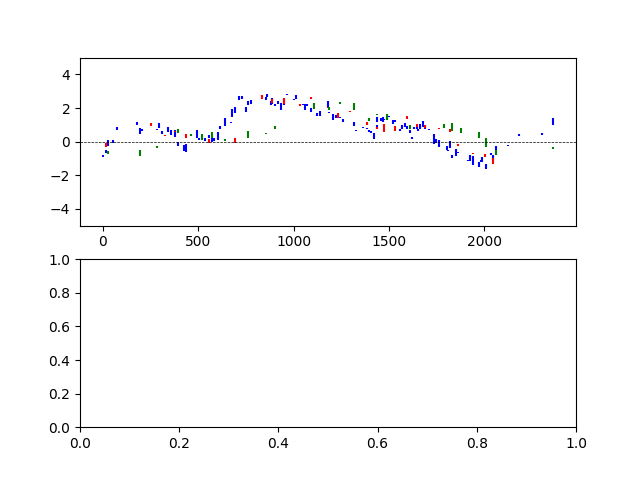
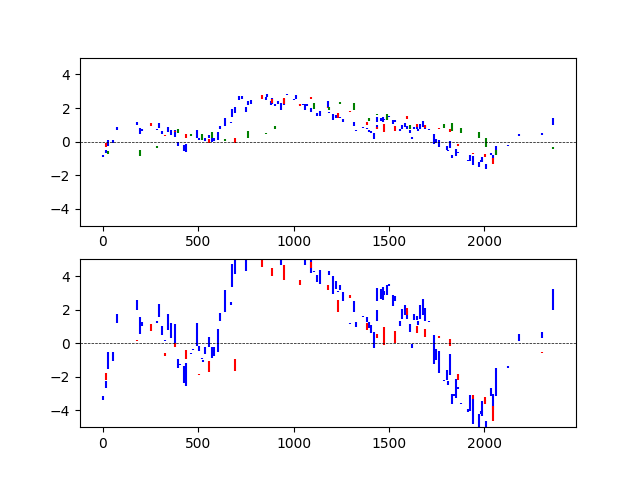
auto commit via batch

diff --git a/Data/data_fake/clearsignal/makecontours.py b/Data/data_fake/clearsignal/makecontours.py
@@ -2,40 +2,53 @@ from chainconsumer import ChainConsumer
 import numpy as np
 import matplotlib.pylab as plt
 
-try:
-    SIGNAL = np.loadtxt("banded_data.dat")
-except:
-    pass
+SIGNAL = np.loadtxt("banded_data.dat")
+
 
 #==================================
 
-try:
-    DATA = np.loadtxt("outchain.dat")
-    KEYS = np.loadtxt("outchain_keys.dat", dtype="str_")
+DATA = np.loadtxt("outchain.dat")
+KEYS = np.loadtxt("outchain_keys.dat", dtype="str_")
 
-    c = ChainConsumer()
-    c.add_chain(DATA, parameters = list(KEYS))
+Nbands = (DATA.shape[1]-3) / 3
 
-    truth = {"amps_0" : 1,
-             "amps_1" : 1,
+c = ChainConsumer()
+c.add_chain(DATA, parameters = list(KEYS))
+
+if Nbands==2:
+    truth = {"rel_amps_0" : 1,
+             "rel_amps_1" : 1,
              "log_sigma_c" : 0,
              "log_tau" : 5.99,
              "means_0":0,
              "means_1":0,
              "means_2":0}
 
-    extents = {"amps_0" :       (0,10),
-             "amps_1" :         (0,10),
+    extents = {"rel_amps_0" :       (0,10),
+             "rel_amps_1" :         (0,10),
              "log_sigma_c" :    (-2.3,2.3),
              "log_tau" :        (2,8),
              "means_0":         (-10,10),
              "means_1":         (-10,10),
              "means_2":         (-10,10)
                }
+elif Nbands==1:
+    truth = {"rel_amps" : 1,
+             "log_sigma_c" : 0,
+             "log_tau" : 5.99,
+             "means_0":0,
+             "means_1":0,
+             }
 
-    c.plotter.plot(filename ="./contours.png", truth=truth, extents=extents)
-except:
-    pass
+
+    extents = {"rel_amps" :       (0,10),
+             "log_sigma_c" :    (-2.3,2.3),
+             "log_tau" :        (2,8),
+             "means_0":         (-10,10),
+             "means_1":         (-10,10),
+               }
+
+c.plotter.plot(filename ="./contours.png", truth=truth, extents=extents)
 #==================================
 fig,ax = plt.subplots(2,1)
 cols = ['b','r','g']
@@ -49,16 +62,15 @@ for file,c in zip(["cont.dat", "line1.dat", "line2.dat"],cols):
 ax[0].set_ylim([-5,5])
 ax[0].axhline(0,c='k', ls='--', lw=0.5)
 
-try:
-    for band,c in zip([0,1,2], cols):
-        inds = np.where(SIGNAL[:,3]==band)[0]
-        
-        ax[1].errorbar(SIGNAL[:,0][inds],SIGNAL[:,1][inds],yerr=SIGNAL[:,2][inds],fmt='none',c=c)
-        
-        
-    ax[1].set_ylim([-5,5])
-    ax[1].axhline(0,c='k', ls='--', lw=0.5)
-except:
-    pass
+
+for band,c in zip([0,1,2], cols):
+    inds = np.where(SIGNAL[:,3]==band)[0]
+    
+    ax[1].errorbar(SIGNAL[:,0][inds],SIGNAL[:,1][inds],yerr=SIGNAL[:,2][inds],fmt='none',c=c)
+    
+    
+ax[1].set_ylim([-5,5])
+ax[1].axhline(0,c='k', ls='--', lw=0.5)
+
 
 fig.savefig("signal.png",fmt="png")

diff --git a/fitting_procedure.py b/fitting_procedure.py
@@ -197,22 +197,15 @@ def fit_single_source(banded_data, MCMC_params=None):
 
     # Construct and run MCMC sampler
     # DEBUG - Try using SA instead of NUTS
+    sampler_type = infer.NUTS(nline_model, init_strategy=infer.init_to_value(values=init_params), step_size=MCMC_params["step_size"])
+    #sampler_type = infer.SA(nline_model, init_strategy=infer.init_to_value(values=init_params))
 
     sampler = numpyro.infer.MCMC(
-        infer.NUTS(nline_model, init_strategy=infer.init_to_value(values=init_params), step_size=MCMC_params["step_size"]),
+        sampler_type,
         num_chains=MCMC_params["Nchain"],
         num_warmup=MCMC_params["Nburn"],
         num_samples=MCMC_params["Nsample"],
         progress_bar=MCMC_params["progress_bar"])
-
-    '''
-    sampler = numpyro.infer.MCMC(
-        infer.SA(nline_model, init_strategy=infer.init_to_value(values=init_params)),
-        num_chains=MCMC_params["Nchain"],
-        num_warmup=MCMC_params["Nburn"],
-        num_samples=MCMC_params["Nsample"],
-        progress_bar=MCMC_params["progress_bar"])
-    '''
 
     sampler.run(jax.random.PRNGKey(0), banded_data)
 

diff --git a/data_utils.py b/data_utils.py
@@ -130,7 +130,8 @@ def data_tform(data, tform_params=None, sort = False):
         tformed_data["Y"]-=params["means"][tformed_data["bands"]]
         tformed_data["Y"]/=params["amps"][tformed_data["bands"]]
 
-        if "E" in data.keys(): tformed_data["E"]/=params["amps"][tformed_data["bands"]]
+        if "E" in data.keys():
+            tformed_data["E"]/=params["amps"][tformed_data["bands"]]
 
         if sort:
             sort_inds = jnp.argsort(tformed_data["T"])
@@ -243,9 +244,9 @@ if __name__=="__main__":
     '''
 
     #load some example data
-    cont  = array_to_lc(np.loadtxt("./Data/data_fake/360day/cont.dat"))
-    line1 = array_to_lc(np.loadtxt("./Data/data_fake/360day/line1.dat"))
-    line2 = array_to_lc(np.loadtxt("./Data/data_fake/360day/line2.dat"))
+    cont  = array_to_lc(np.loadtxt("./Data/data_fake/clearsignal/cont.dat"))
+    line1 = array_to_lc(np.loadtxt("./Data/data_fake/clearsignal/line1.dat"))
+    line2 = array_to_lc(np.loadtxt("./Data/data_fake/clearsignal/line2.dat"))
 
     #Offset times by 100
     cont["T"]+=100

diff --git a/LineFit01.py b/LineFit01.py
@@ -64,9 +64,9 @@ def main():
     lcs_unbanded = [cont, line1]#], line2]
 
     banded_data = lc_to_banded(lcs_unbanded)
-    banded_data = data_tform(banded_data, normalize_tform(banded_data))
+    #banded_data = data_tform(banded_data, normalize_tform(banded_data))
 
-    #Save data output to be safe
+    #Save normalized light curve for checks
     out, out_keys = flatten_dict(banded_data)
     print("Data loaded. Saving normalized lightcurve to %s" %(job_args["out_url"]+"banded_data.dat"))
     try:
